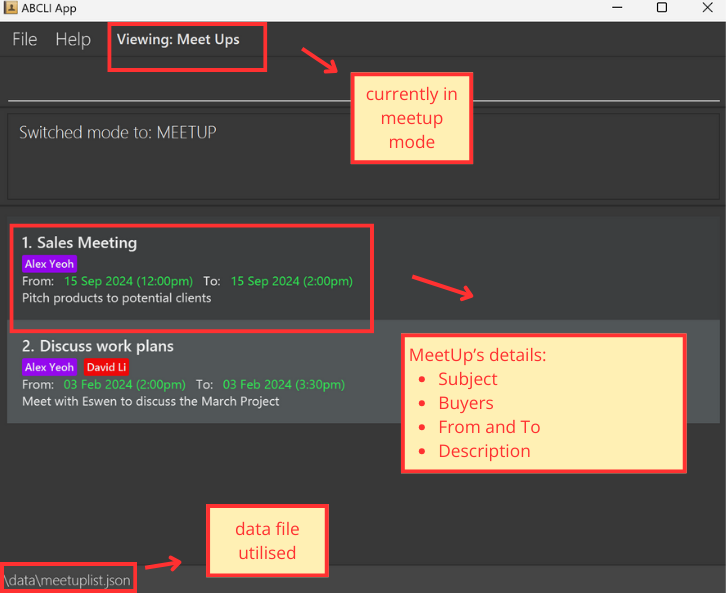
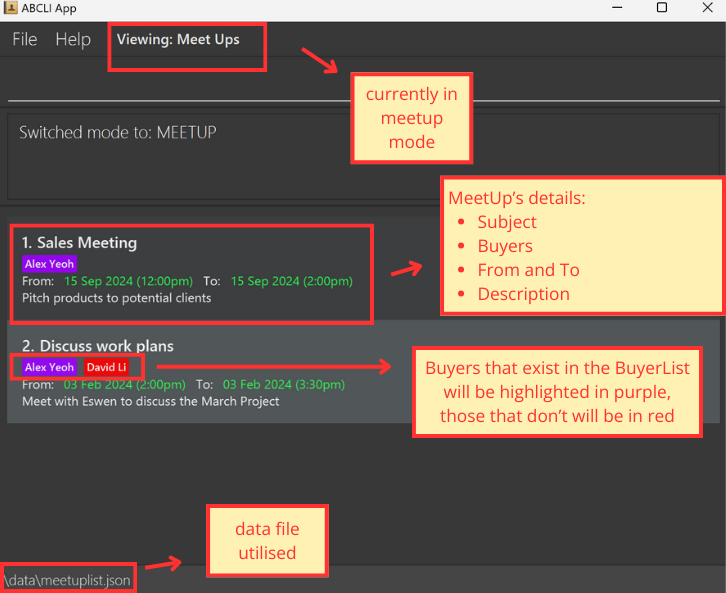
Update section on meet-up buyers name purple and red

Changed region(s): [[0.0, 0.2732, 1.0, 0.8196]]

diff --git a/docs/UserGuide.md b/docs/UserGuide.md
@@ -232,6 +232,10 @@ Format: `clear`
 
 * Note how the mode is highlighted by `Viewing: Meet Ups` above the command line
 
+* Note how each meet-up contains buyer, if the buyer exists in the BuyerList, it will be marked as purple, else red. The matching here is done by case-sensitive matching, e.g. `Alex Yeoh` will only be purple if there is `Alex Yeoh` in the Buyer List, not `Alex yeoh` or `alex yeoh` or `Alex`.
+
+* However, if an existing buyer's name is edited, the buyer shown in meet-ups won't update accordingly and will just change from purple to red, e.g. in the image above, if the name of `Alex Yeoh` was changed in the BuyerList to `Alex Yeo`, in the meet-up mode, both meetings would still display `Alex Yeoh` but in red now.
+
 </div>
 
 ### Viewing all meet-ups : `view`
@@ -246,13 +250,13 @@ Adds a meet-up to the meet-up list.
 
 Format: `add s/MEETUP_SUBJECT i/MEETUP_INFO f/MEETUP_FROM t/MEETUP_TO [n/BUYER_NAME]…`
 
-* New meet-ups must have at least one unique non-duplicate aspect from these three fields: MEETUP_SUBJECT, MEETUP_FROM, MEETUP_TO.
+* New meet-ups must have at least one unique non-duplicate aspect from these three fields: MEETUP_SUBJECT, MEETUP_FROM, MEETUP_TO. Else, it will be marked as a duplicate meet-up.
 
 * MEETUP_FROM and MEETUP_TO fields should follow the format `YYYY-MM-DD HH:MM`.
 
 * MEETUP_TO must be a date/time that is later than MEETUP_FROM.
 
-* Buyers that exist in buyer list will be marked as green, while those that don't will be marked as red.
+* Buyers that exist in buyer list will be marked as purple, while those that don't will be marked as red.
 
 Examples:
 * `add s/Discuss work plans i/Meet with Alex and David to discuss the March Project f/2024-02-03 14:00 t/2024-02-03 15:30 n/Alex Yeoh n/David Li `
